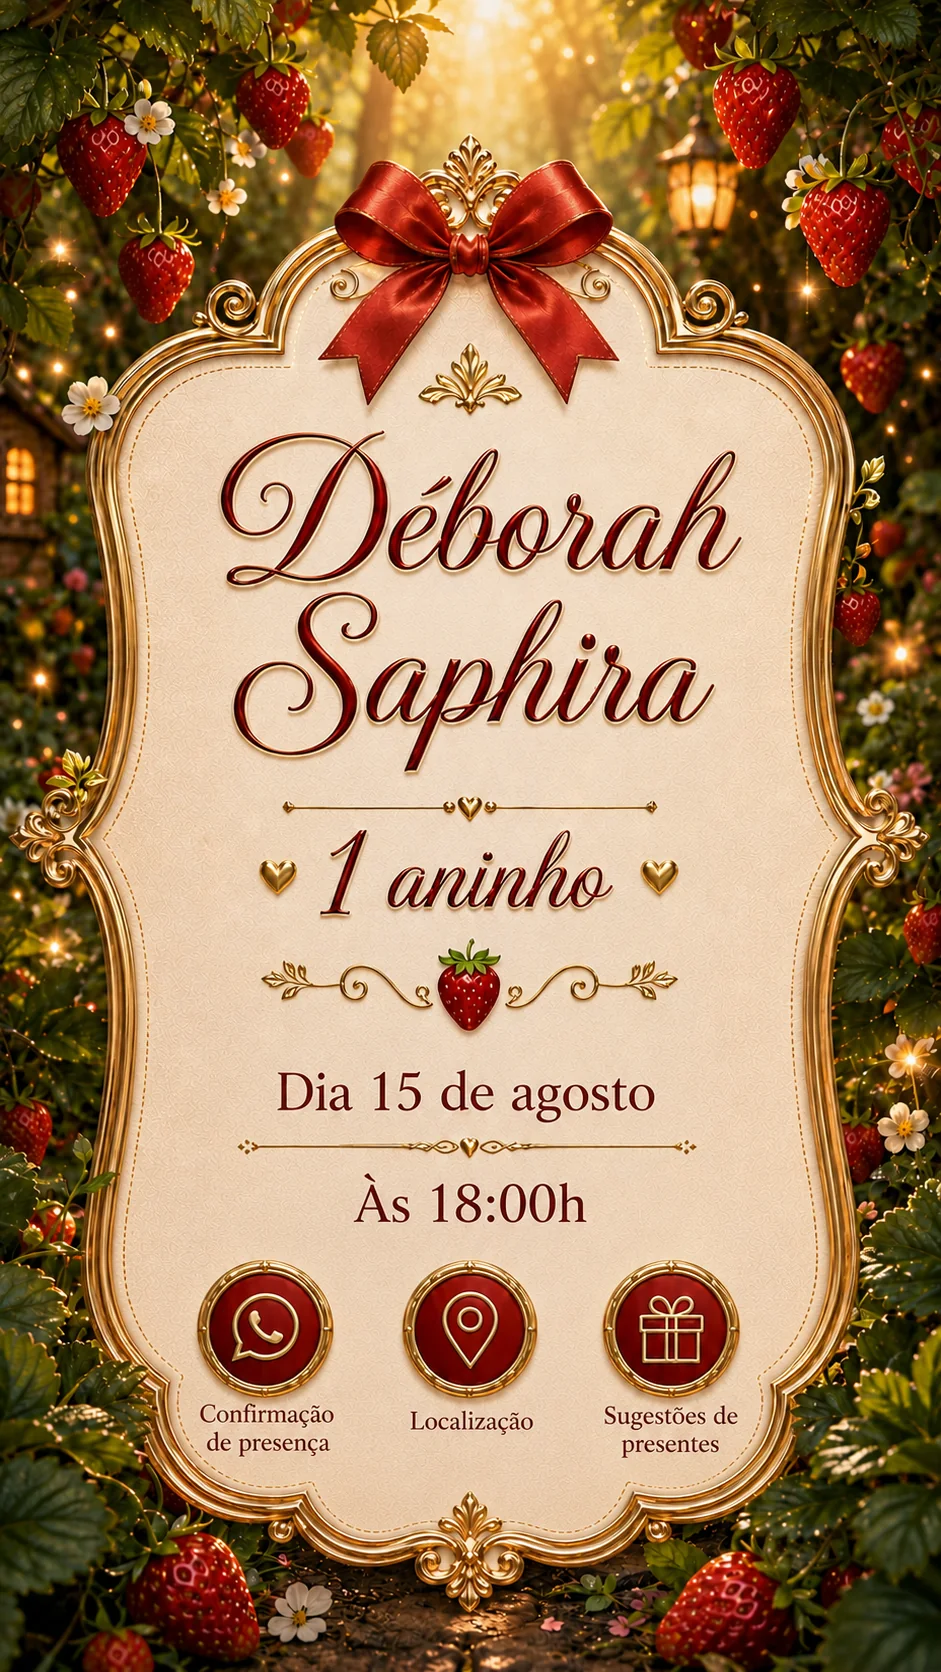
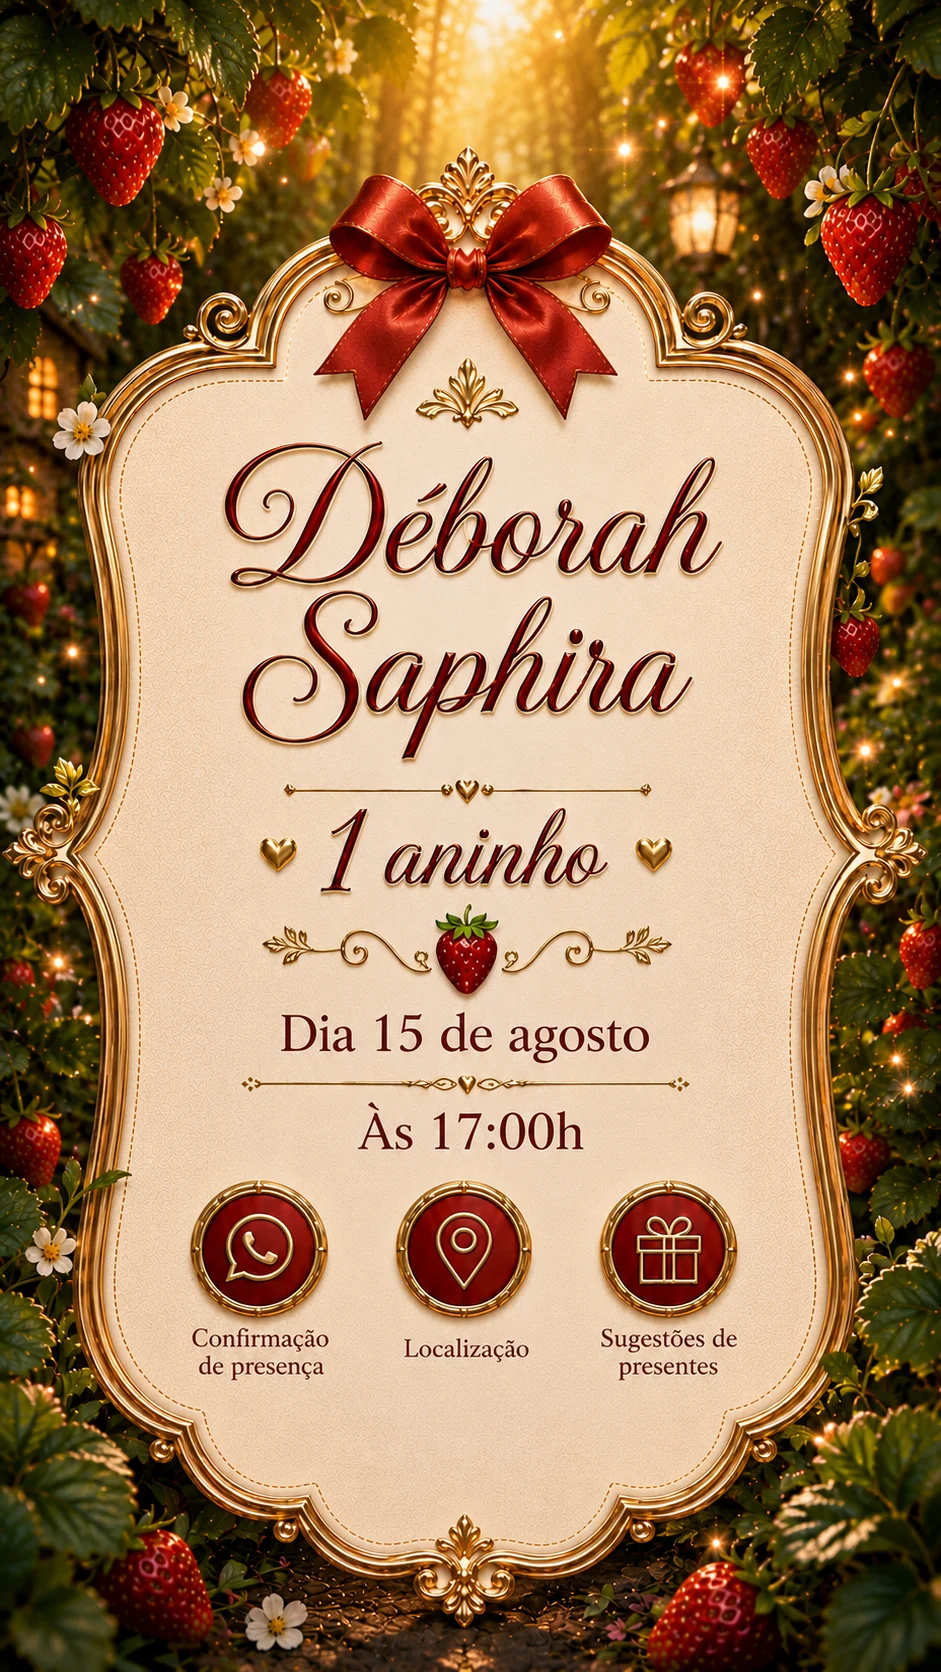
Add files via upload

diff --git a/index.html b/index.html
@@ -104,9 +104,9 @@
 
     function placeHotspots(){
       const spots=[
-        ['btnWhatsapp', 15, 75, 22, 9],
-        ['btnMaps', 39, 75, 22, 9],
-        ['btnGifts', 63, 75, 24, 9]
+        ['btnWhatsapp', 16, 72.5, 22, 11],
+        ['btnMaps', 39, 72.5, 22, 11],
+        ['btnGifts', 62.5, 72.5, 24, 11]
       ];
       spots.forEach(([id,x,y,w,h])=>{const el=$(id); el.style.left=x+'%';el.style.top=y+'%';el.style.width=w+'%';el.style.height=h+'%'; if(DEBUG) el.classList.add('debug')});
       if(DEBUG) $('backBtn').classList.add('debug');
